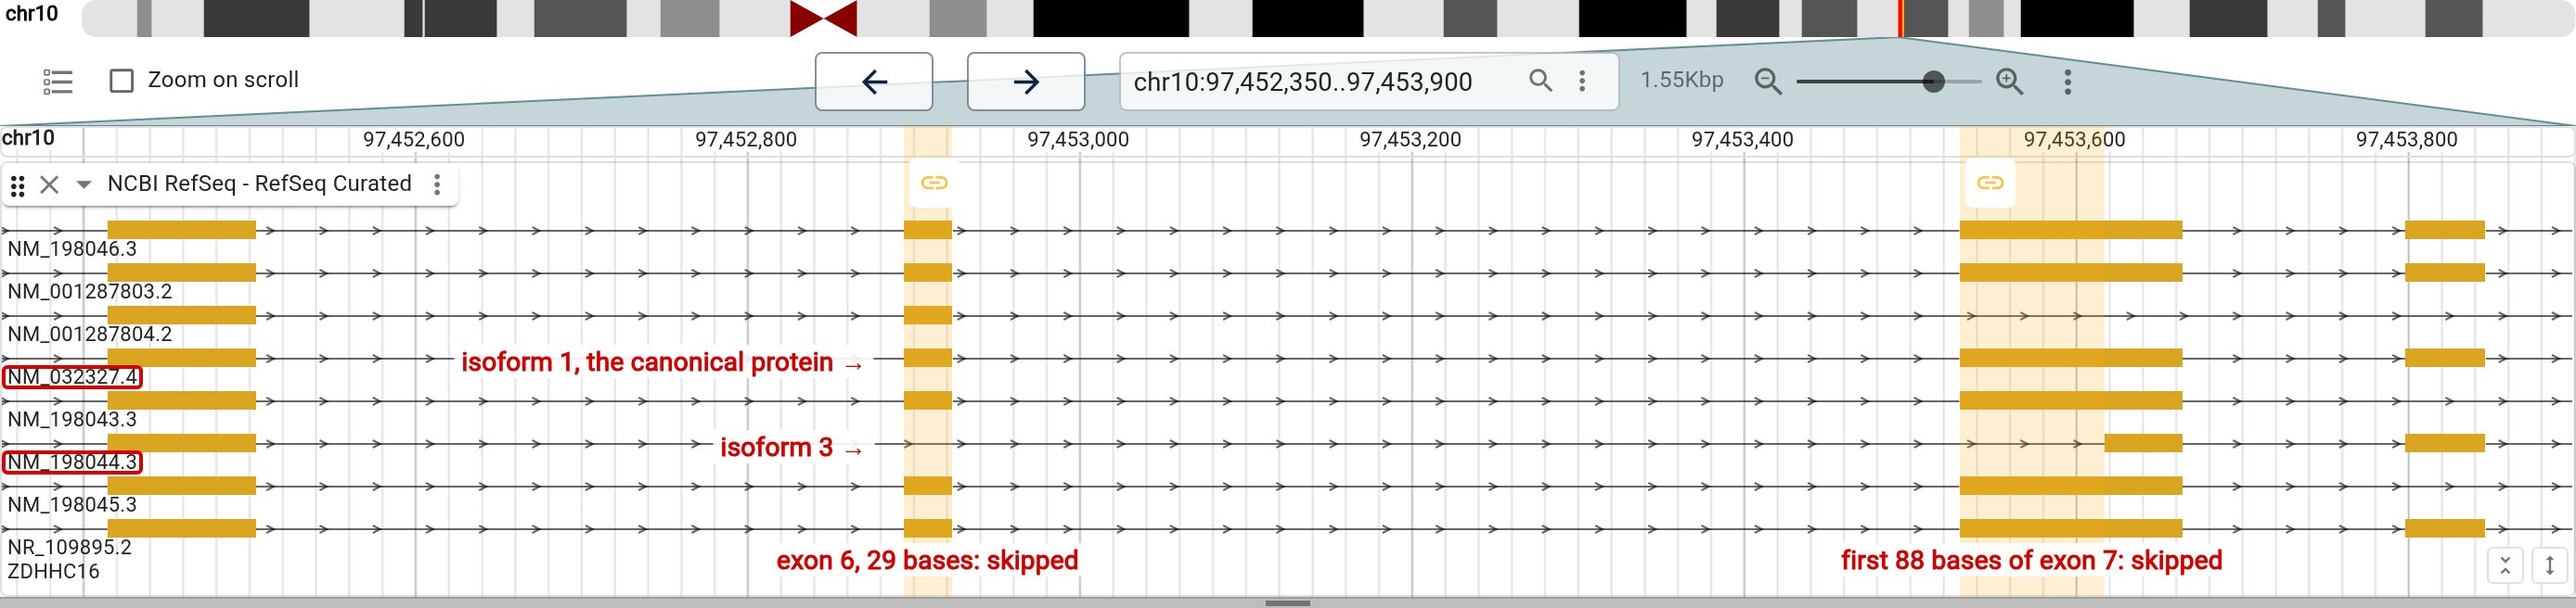
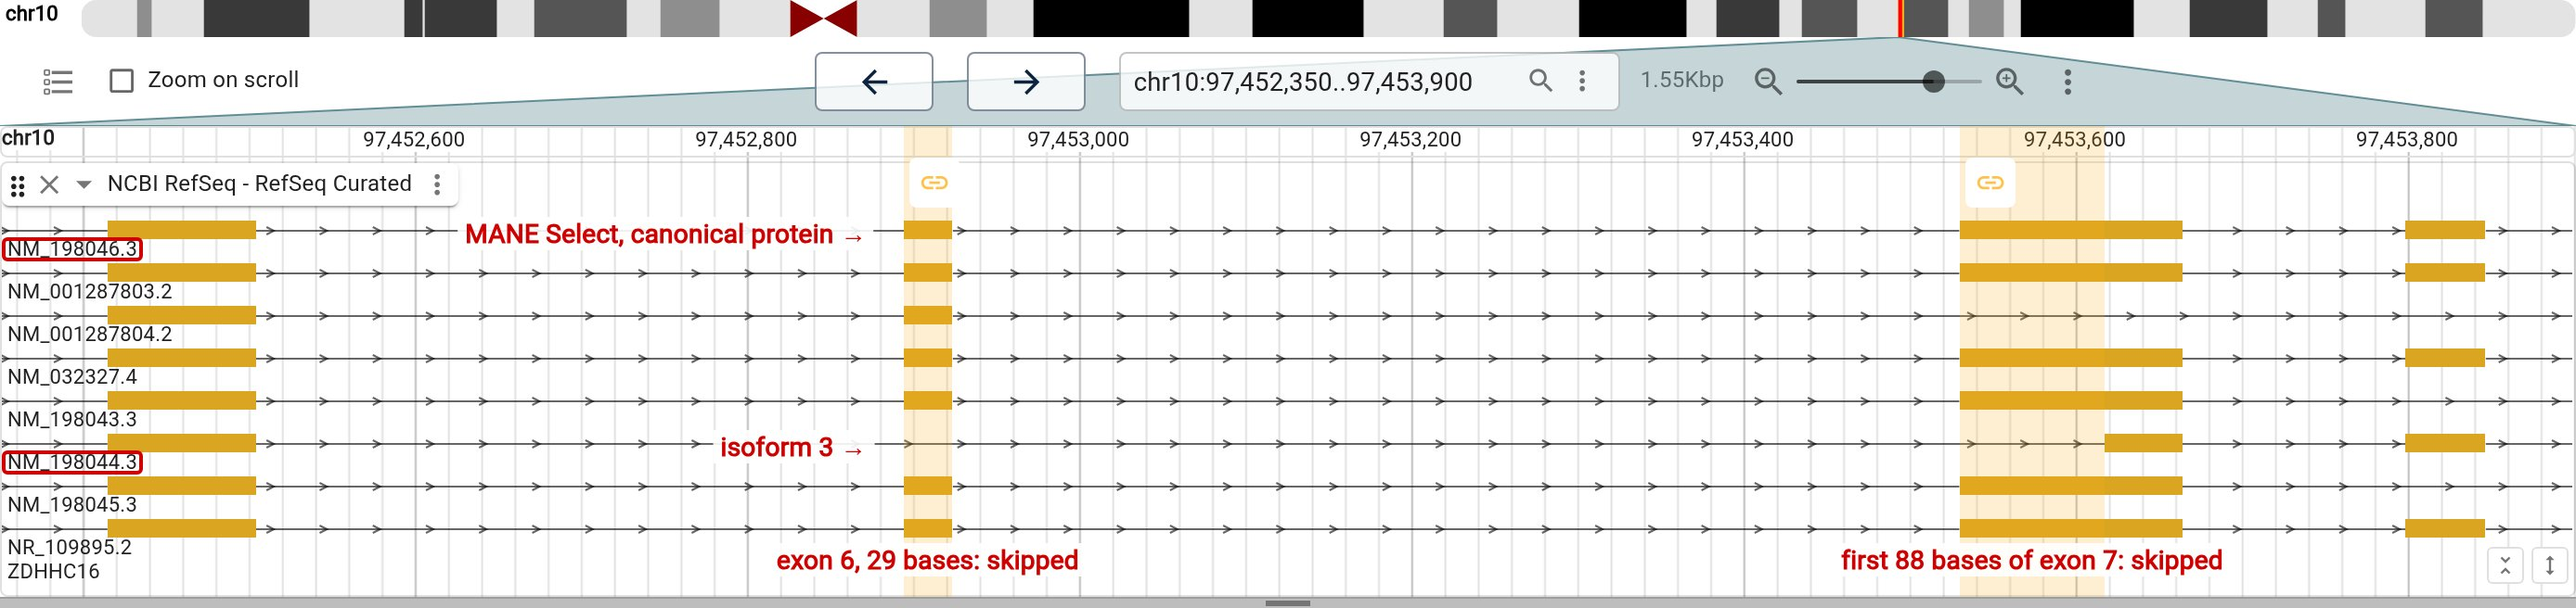
Blog: ZDHHC16 figure marks the MANE Select transcript, NM_198046.3

diff --git a/src/heroes.ts b/src/heroes.ts
@@ -169,7 +169,7 @@ async function annotateZdhhc16(page: Page) {
     box(page.getByTestId(/^trackRenderingContainer-/)),
     box(page.getByTestId('highlight-band').nth(0)),
     box(page.getByTestId('highlight-band').nth(1)),
-    box(page.getByText('NM_032327.4', { exact: true })),
+    box(page.getByText('NM_198046.3', { exact: true })),
     box(page.getByText('NM_198044.3', { exact: true })),
   ])
   const html =
@@ -178,7 +178,7 @@ async function annotateZdhhc16(page: Page) {
           outline(canonical),
           outline(isoform3),
           note(
-            'isoform 1, the canonical protein →',
+            'MANE Select, canonical protein →',
             exon6.x - 16,
             canonical.y - 12,
             '-100%',
